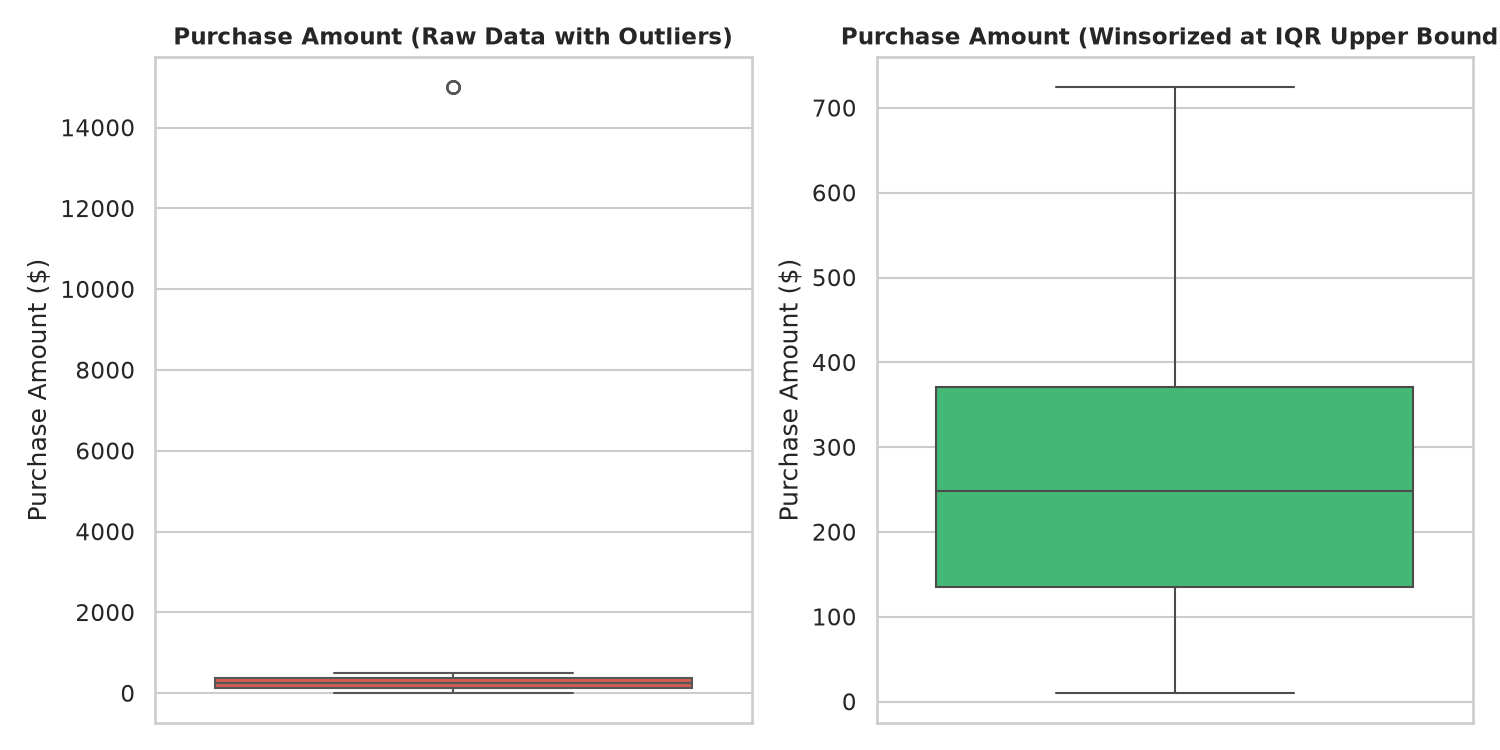
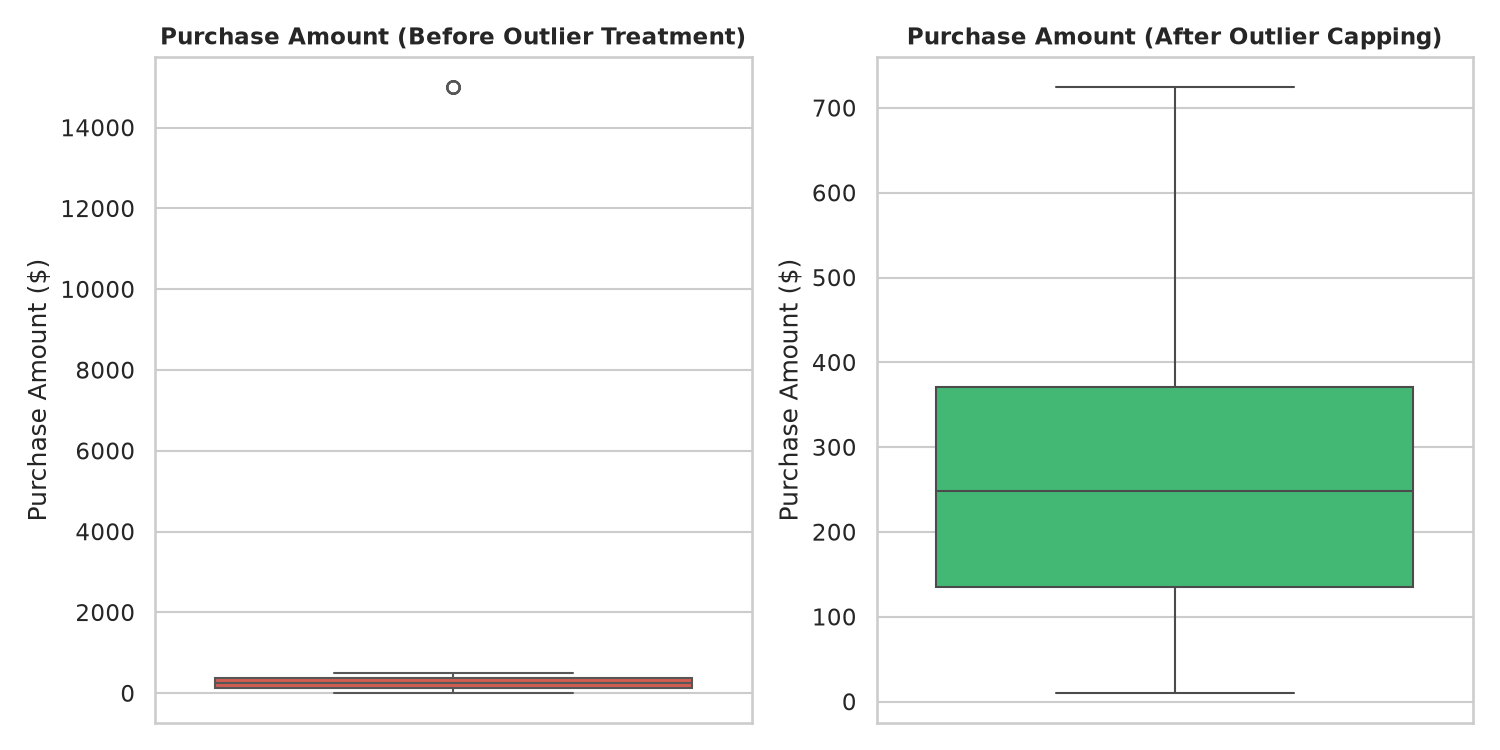
Polish Task 3: Clarify Purchase_Amount_Capped retention and boxplot titles

Changed region(s): [[0.552, 0.0307, 1.0, 0.0613], [0.092, 0.0307, 0.4907, 0.0613]]

diff --git a/Task3_Data_Cleaning/README.md b/Task3_Data_Cleaning/README.md
@@ -22,7 +22,7 @@ This project demonstrates an industry-standard, reproducible data cleaning pipel
 - **Categorical & Text Standardization:** Standardize inconsistent casing, whitespace, and category typos across string columns.
 - **Data Type Parsing:** Convert monetary string columns to `float64` and parse mixed text date formats to `datetime64[ns]`.
 - **Statistical Imputation:** Treat missing values using domain-appropriate strategies (Mode for categories, Median for numerical values).
-- **Outlier Analysis & Treatment:** Implement Interquartile Range (**IQR**) outlier detection and Winsorization (capping).
+- **Outlier Analysis & Dual-Column Retention:** Implement Interquartile Range (**IQR**) outlier detection and Winsorization (capping) into a dedicated column `Purchase_Amount_Capped`.
 - **Validation & Export:** Export the 100% clean, analysis-ready dataset to `data/cleaned/cleaned_dataset.csv`.
 
 ---
@@ -44,10 +44,10 @@ The dataset represents a customer transactions dataset designed to exhibit real-
 | `Join_Date` | `object` | `datetime64[ns]` | Customer sign-up date (parsed to ISO datetime) |
 | `Customer_Age` | `float64` | `int64` | Customer age in years (Range: 18 – 70) |
 | `Income_USD` | `object` | `float64` | Annual customer income in USD ($) |
-| `Purchase_Amount` | `float64` | `float64` | Transaction order amount in USD ($) |
+| `Purchase_Amount` | `float64` | `float64` | Original/imputed purchase order amount in USD ($) |
 | `Product_Category` | `object` | `object` | Retail category (`Electronics`, `Clothing`, `Beauty`, `Home & Kitchen`) |
 | `Country` | `object` | `object` | Country of residence |
-| `Purchase_Amount_Capped` | N/A | `float64` | IQR-winsorized purchase amount for outlier stability |
+| `Purchase_Amount_Capped` | N/A | `float64` | IQR-winsorized purchase amount for parametric model stability |
 
 ---
 
@@ -71,7 +71,7 @@ The dataset represents a customer transactions dataset designed to exhibit real-
 | **Monetary String Parsing** | `Income_USD` formatted as string (`$45,000.00`, `UNKNOWN`) | Cleaned symbols and parsed to `float64` |
 | **Mixed Date Formats** | Dates formatted as `YYYY-MM-DD`, `MM/DD/YYYY`, text | Parsed via `pd.to_datetime(format='mixed')` |
 | **Numeric Age Anomalies** | Invalid ages (`-5`, `150`, `200`) | Filtered invalid ranges and imputed median (42 yrs) |
-| **Purchase Amount Outliers** | Negative values (`-$50.00`) and high spikes (`$15,000.00`) | Filtered negatives and Winsorized at IQR Upper Bound ($670.36) |
+| **Purchase Amount Outliers** | Negative values (`-$50.00`) and high spikes (`$15,000.00`) | Filtered negatives and Winsorized into `Purchase_Amount_Capped` |
 
 ---
 
@@ -90,14 +90,18 @@ The dataset represents a customer transactions dataset designed to exhibit real-
 
 ---
 
-## 7. Outlier Detection (IQR Method)
+## 7. Outlier Detection & Dual-Column Retention Rationale
 
-For `Purchase_Amount`:
+For `Purchase_Amount`, the Interquartile Range (**IQR**) parameters are:
 - **First Quartile ($Q_1$):** $185.87
 - **Third Quartile ($Q_3$):** $379.41
 - **Interquartile Range ($\text{IQR}$):** $193.54
 - **Upper Bound ($Q_3 + 1.5 \times \text{IQR}$):** $670.36
-- **Outlier Decision:** Capped extreme spikes ($15,000.00) at $670.36 (**Winsorization**) to protect variance while retaining customer transaction rows.
+
+### Dual-Column Strategy (`Purchase_Amount` vs `Purchase_Amount_Capped`):
+1. **`Purchase_Amount` (Original / Imputed):** Preserves authentic historical customer spend values without destroying extreme transaction records.
+2. **`Purchase_Amount_Capped` (Winsorized):** Contains purchase amounts capped at the upper IQR threshold (**$670.36**). Extreme transaction spikes (e.g. **$15,000.00**) are capped at **$670.36**.
+3. **Purpose of Dual Retention:** Keeping both columns ensures complete transparency and data auditability. Downstream modeling algorithms (e.g. distance-based clustering or linear regression) benefit from `Purchase_Amount_Capped` to prevent variance distortion, while `Purchase_Amount` maintains true accounting totals.
 
 ---
 
@@ -115,7 +119,7 @@ For `Purchase_Amount`:
 | **Join_Date Data Type** | Object (mixed text strings) | **datetime64[ns]** |
 | **Income_USD Data Type** | Object (string with `$`, `,`) | **Numeric float64** |
 | **Age Anomalies** | Invalid values (-5, 150, 200) | **Imputed with Median Age (42 yrs)** |
-| **Purchase Amount Outliers** | Extreme spikes ($15,000.00) | **Winsorized at Upper IQR Bound ($670.36)** |
+| **Purchase Amount Outliers** | Extreme spikes ($15,000.00) | **Winsorized to IQR Upper Bound ($670.36)** |
 
 ---
 
@@ -125,7 +129,7 @@ All generated plots are saved in `outputs/charts/`:
 
 1. **`missing_values_before_after.png`:** Bar chart illustrating the complete elimination of null values across all columns.
 2. **`category_standardization.png`:** Bar chart showing clean distribution across standardized product categories.
-3. **`outliers_boxplots_before_after.png`:** Side-by-side boxplots illustrating raw outlier spikes vs winsorized purchase amounts.
+3. **`outliers_boxplots_before_after.png`:** Side-by-side boxplots comparing **"Purchase Amount (Before Outlier Treatment)"** (original purchase amounts) versus **"Purchase Amount (After Outlier Capping)"** (capped values at $670.36).
 
 ---
 
@@ -148,7 +152,7 @@ Task3_Data_Cleaning/
 │   │   ├── category_standardization.png
 │   │   ├── missing_values_before_after.png
 │   │   └── outliers_boxplots_before_after.png
-│   └── reports/                        # Audit and summary report CSVs
+│   └── reports/                        # Audit & comparison report CSVs
 │       ├── before_after_summary.csv
 │       └── data_quality_before.csv
 │
@@ -186,7 +190,7 @@ Task3_Data_Cleaning/
 
 ## 12. Key Learnings
 - **Domain-Specific Imputation:** Mean imputation can skew right-skewed numerical data; median imputation provides robust central tendency.
-- **Data Preservation via Winsorization:** Deleting outliers reduces sample size, whereas IQR capping preserves observation counts while stabilizing metric variance.
+- **Data Preservation via Dual Columns:** Retaining both uncapped and winsorized columns preserves historical accuracy while offering variance stability for machine learning models.
 - **Regex & String Cleansing:** Standardizing casing and removing hidden leading/trailing spaces prevents duplicated category keys in grouping operations.
 
 ---
